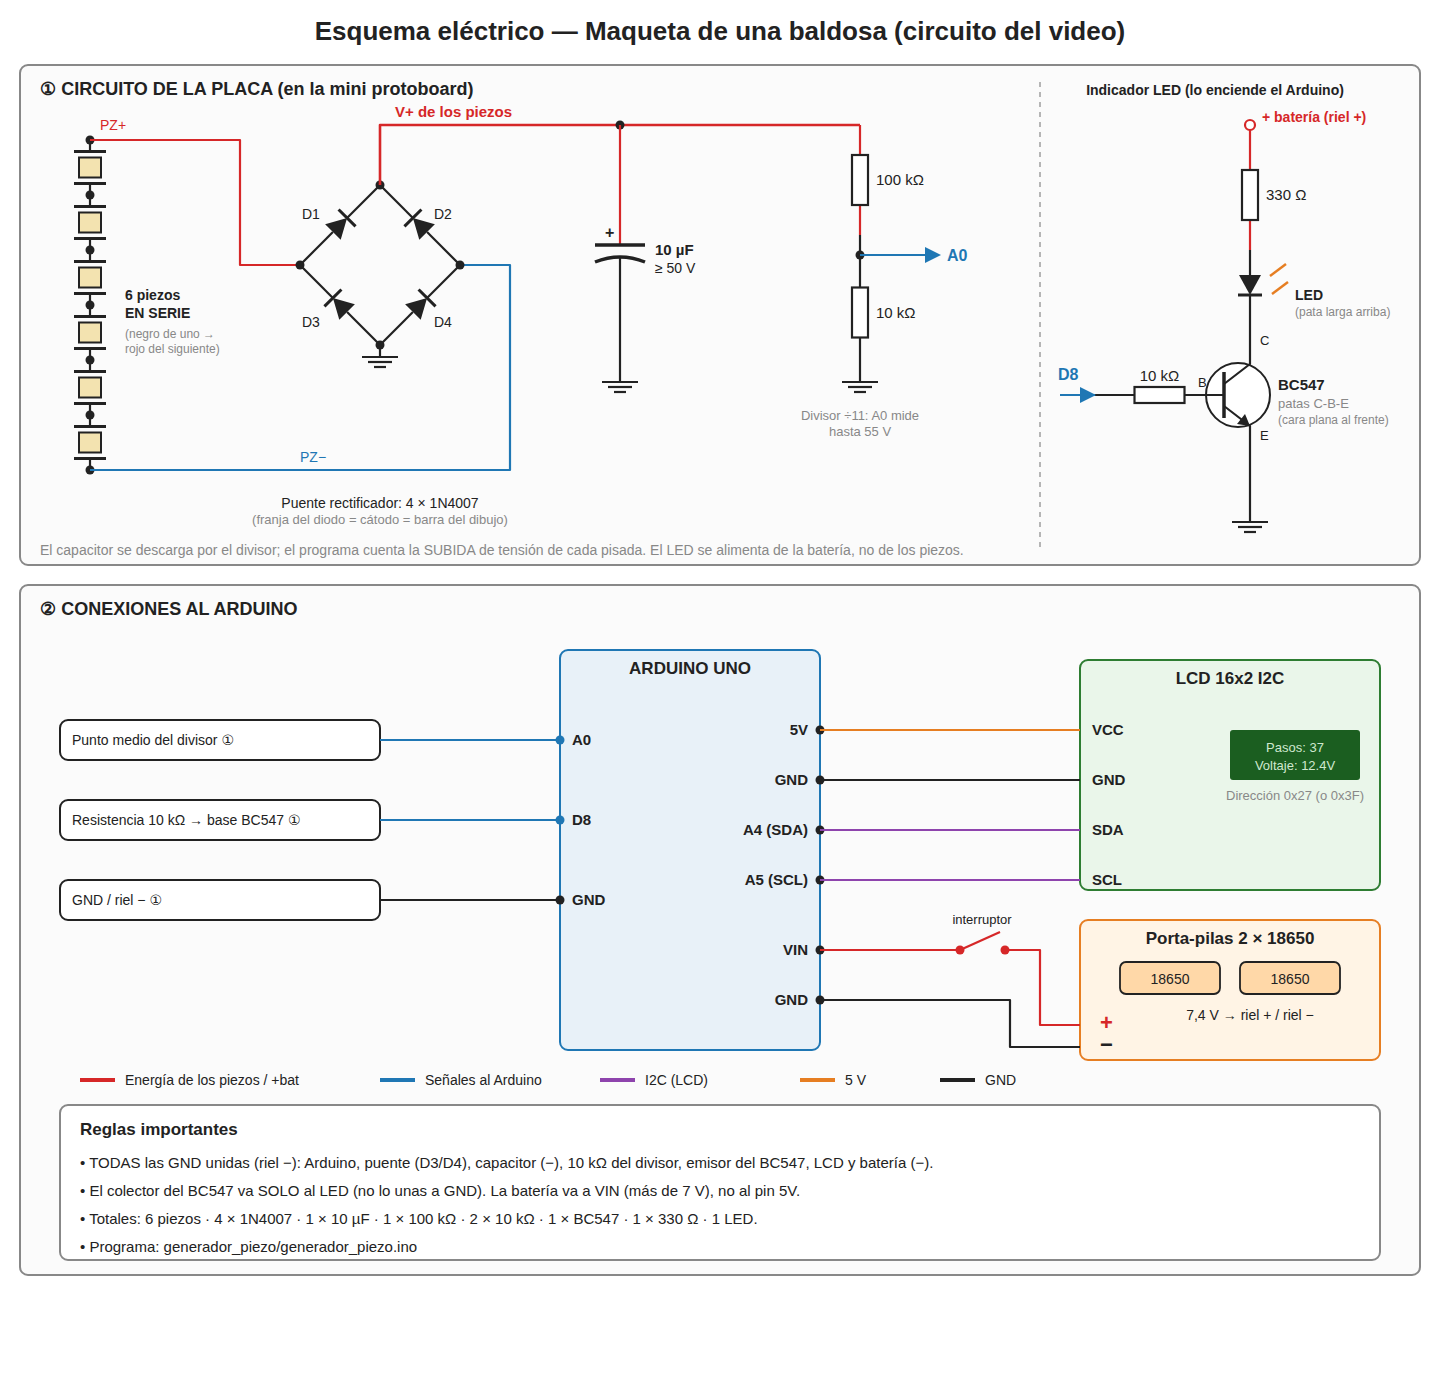
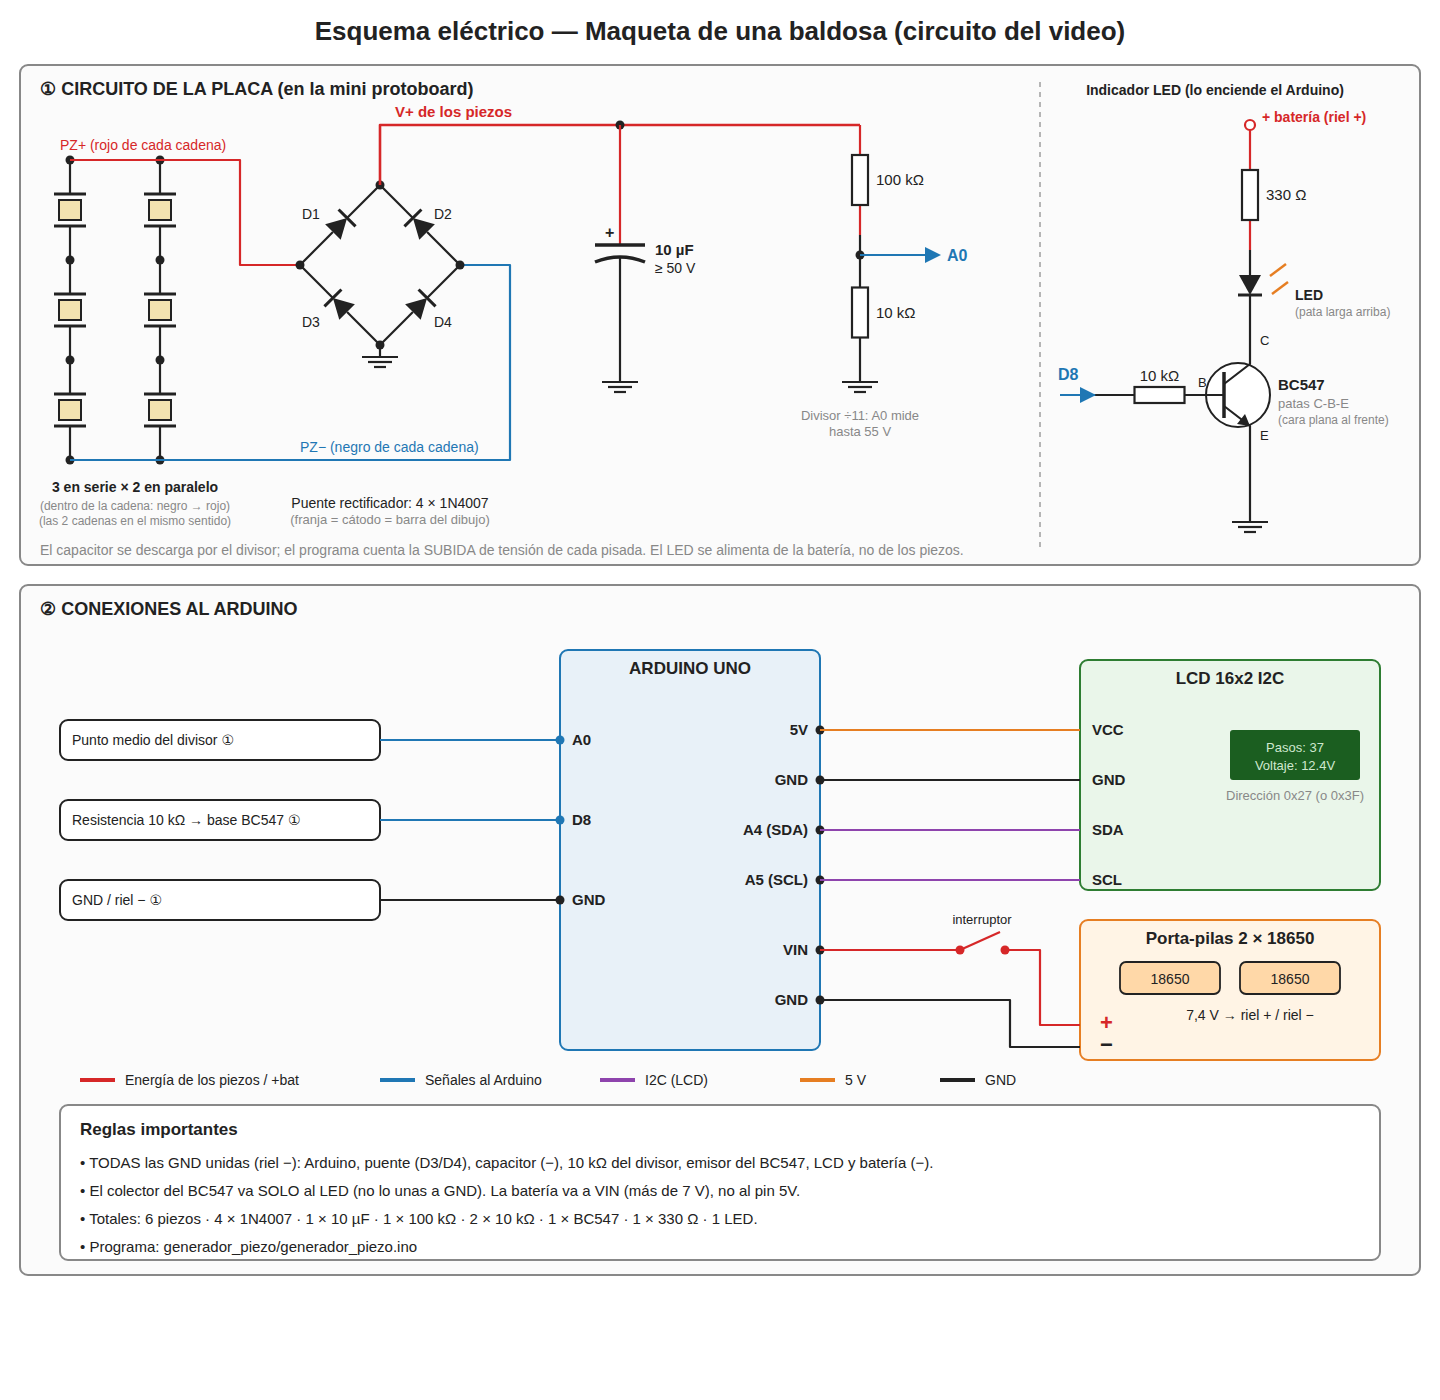
Maqueta: piezos 3 en serie x 2 en paralelo
Claude-Session: https://claude.ai/code/session_019v7isibzjxfGgDFg4fqQPk

Changed region(s): [[0.0312, 0.0921, 0.1562, 0.3993], [0.1875, 0.3071, 0.3438, 0.3993]]

diff --git a/generador-piezoelectrico/README.md b/generador-piezoelectrico/README.md
@@ -29,8 +29,8 @@ tensión generada y la muestra en una **pantalla LCD I2C**. Todo funciona con
     │
     ▼
  ┌──────────────┐   CA    ┌──────────────┐   CC    ┌───────────┐
- │ 6 piezos en  │ ──────▶ │ Puente de    │ ──────▶ │ Capacitor │──▶ divisor 100k/10k ──▶ A0
- │ serie        │         │ 4 × 1N4007   │         │ 10 µF     │
+ │ 6 piezos     │ ──────▶ │ Puente de    │ ──────▶ │ Capacitor │──▶ divisor 100k/10k ──▶ A0
+ │ (3S × 2P)    │         │ 4 × 1N4007   │         │ 10 µF     │
  └──────────────┘         └──────────────┘         └───────────┘
                                                         Arduino UNO ──▶ LCD I2C "Pasos: 37"
                                                              │                 "Voltaje: 12.4V"
@@ -72,18 +72,23 @@ tensión generada y la muestra en una **pantalla LCD I2C**. Todo funciona con
 
 ## 🔌 Conexiones
 
-### 1) Los piezos (en serie)
+### 1) Los piezos (3 en serie × 2 en paralelo)
 
-Conecta los 6 discos **en serie**: el cable **negro** de uno con el **rojo**
-del siguiente. Quedan libres el rojo del primero (**PZ+**) y el negro del
-último (**PZ−**).
+Arma **dos cadenas de 3 piezos en serie** (el cable **negro** de uno con el
+**rojo** del siguiente). Después une los extremos: el **rojo libre** de las dos
+cadenas juntos (**PZ+**) y el **negro libre** de las dos juntos (**PZ−**).
 
 ```
- PZ+ ──[P1]──[P2]──[P3]──[P4]──[P5]──[P6]── PZ−
-       rojo→negro  rojo→negro  ...
+        ┌──[P1]──[P2]──[P3]──┐
+ PZ+ ───┤                    ├─── PZ−
+        └──[P4]──[P5]──[P6]──┘
 ```
 
-> En serie se suman los voltajes: con 6 piezos se ve bien en el LCD.
+> - Las dos cadenas tienen que quedar **en el mismo sentido**; si una está al
+>   revés, se anulan entre ellas.
+> - Prueba con el multímetro (V DC) entre PZ+ y PZ− apretando la placa: tienes
+>   que ver un pico de algunos voltios.
+> - Comparado con 6 en serie: la mitad de voltaje y el doble de corriente.
 
 ### 2) Puente rectificador (4 × 1N4007)
 
